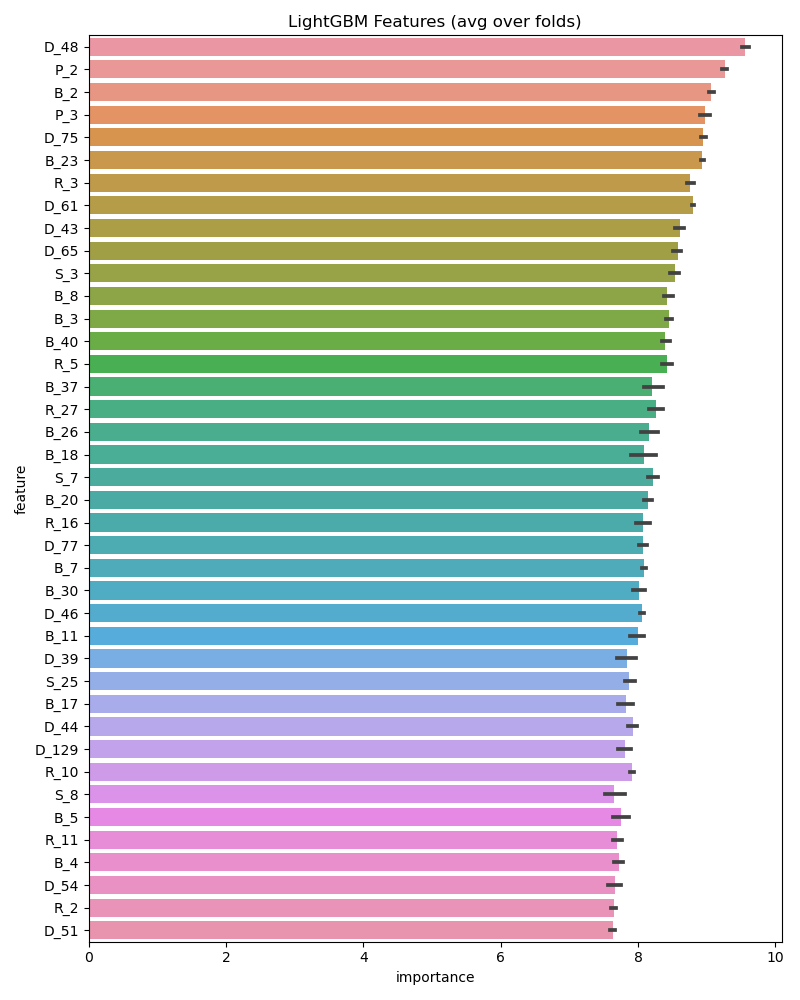
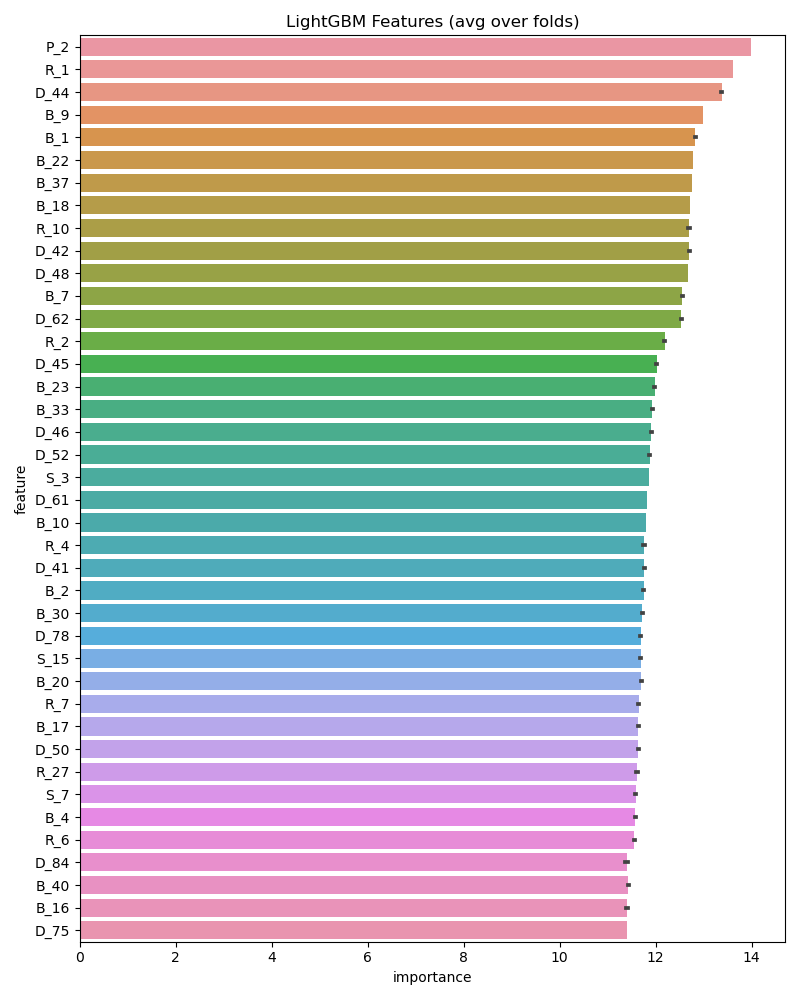
sub #1

diff --git a/src/001_preprocess.py b/src/001_preprocess.py
@@ -10,7 +10,7 @@ from utils import reduce_mem_usage, to_json, to_feature, line_notify
 # preprocess
 #==============================================================================
 
-is_debug = True
+is_debug = False
 
 def main():
 
